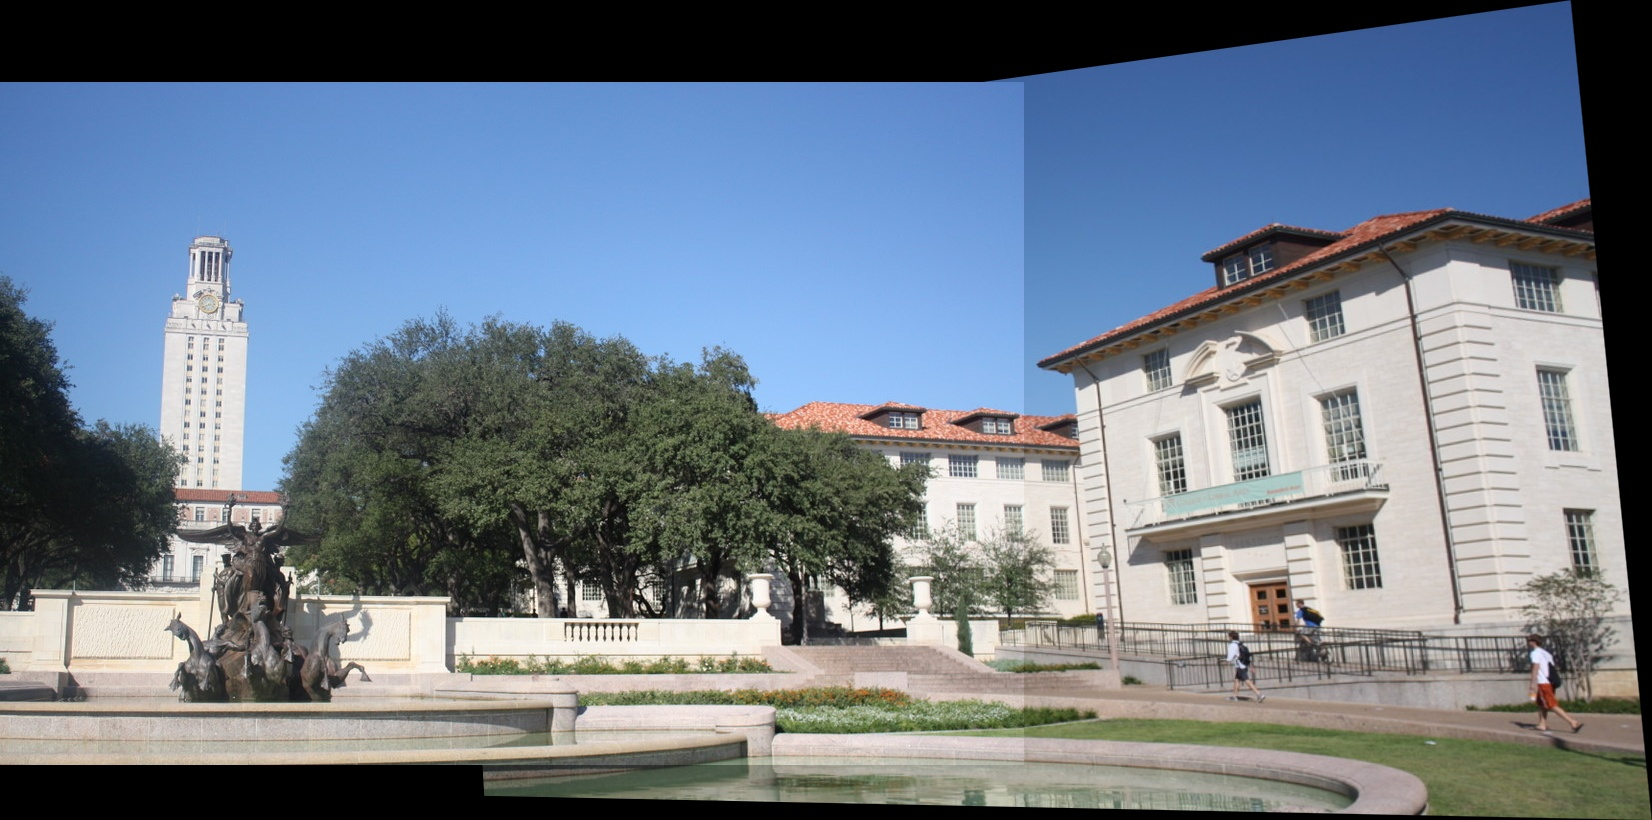
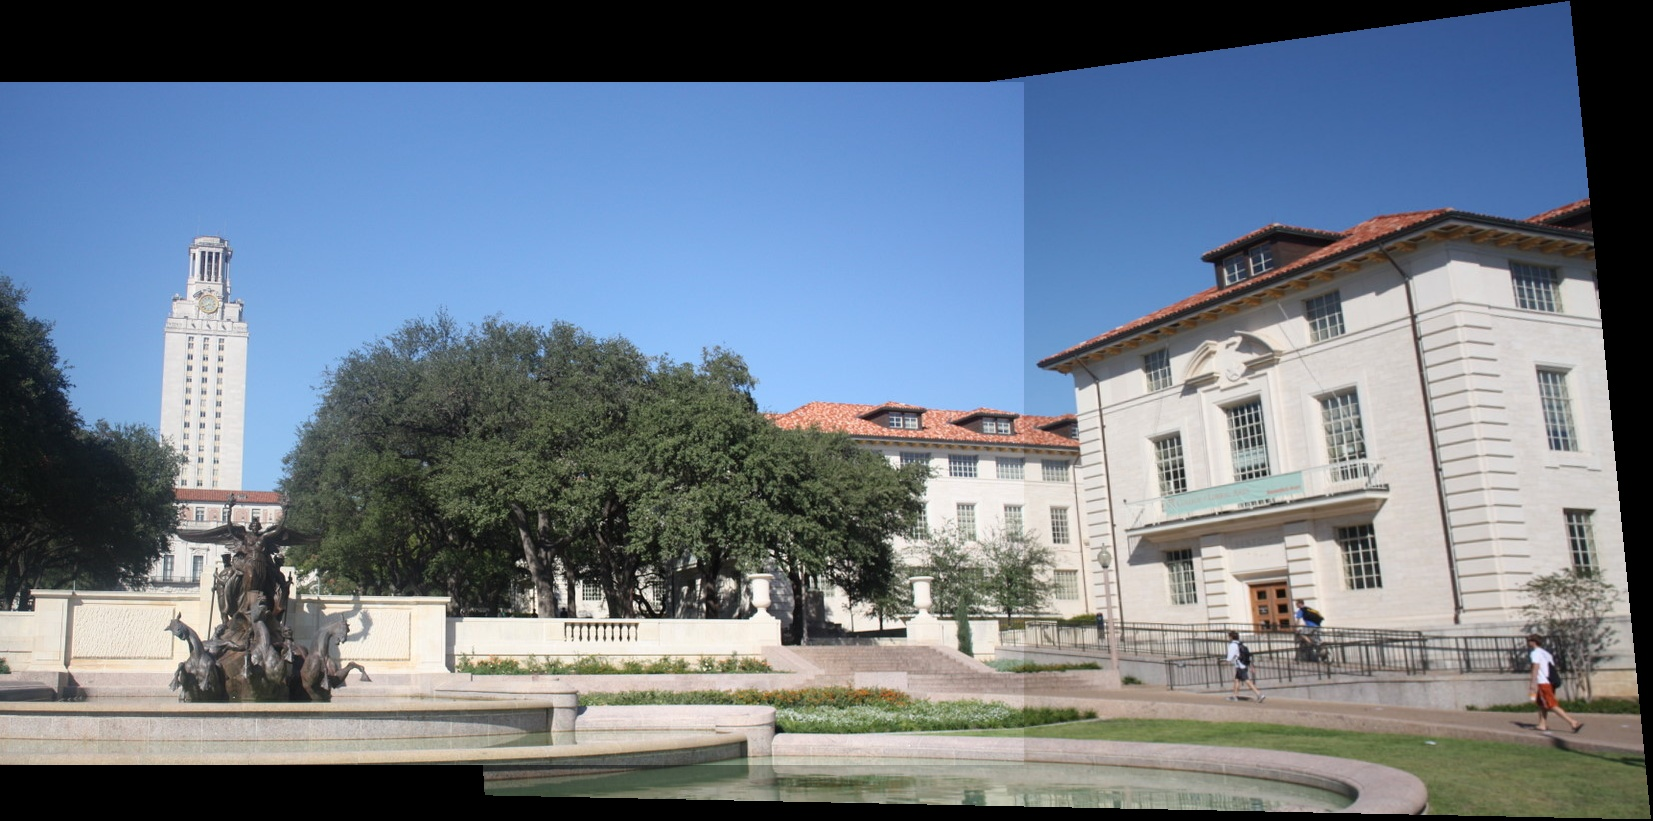
final

diff --git a/part2.py b/part2.py
@@ -206,37 +206,49 @@ plt.show()
 # =====================================
 # 7. Mosaic Creation
 # =====================================
-def create_mosaic(img1, img2, H):
-    """Create mosaic by warping img1 into img2’s coordinate frame."""
-    h2, w2 = img2.shape[:2]
-    h1, w1 = img1.shape[:2]
+def create_mosaic(img_fixed, warped_img, offset):
+    # Convert offsets to integer pixel values
+    ox, oy = offset
+    ox = int(round(ox))
+    oy = int(round(oy))
 
-    # Corners of img1
-    corners_img1 = np.float32([[0, 0], [0, h1], [w1, h1], [w1, 0]]).reshape(-1, 1, 2)
-    warped_corners = cv2.perspectiveTransform(corners_img1, H)
+    hF, wF = img_fixed.shape[:2]
+    hW, wW = warped_img.shape[:2]
 
-    # Combine corners of both images
-    corners_img2 = np.float32([[0, 0], [0, h2], [w2, h2], [w2, 0]]).reshape(-1, 1, 2)
-    all_corners = np.concatenate((warped_corners, corners_img2), axis=0)
+    # Compute canvas bounds
+    min_x = min(0, ox)
+    min_y = min(0, oy)
+    max_x = max(wF, ox + wW)
+    max_y = max(hF, oy + hW)
 
-    [xmin, ymin] = np.int32(all_corners.min(axis=0).ravel() - 0.5)
-    [xmax, ymax] = np.int32(all_corners.max(axis=0).ravel() + 0.5)
+    new_w = int(max_x - min_x)
+    new_h = int(max_y - min_y)
 
-    translation = [-xmin, -ymin]
-    T = np.array([[1, 0, translation[0]], [0, 1, translation[1]], [0, 0, 1]])
+    # Shift values so everything fits in positive index space
+    shift_x = int(-min_x)
+    shift_y = int(-min_y)
 
-    # Warp img1 into mosaic
-    mosaic_w, mosaic_h = xmax - xmin, ymax - ymin
-    img1_warped = cv2.warpPerspective(img1, T @ H, (mosaic_w, mosaic_h))
+    # Create mosaic canvas
+    mosaic = np.zeros((new_h, new_w, 3), dtype=img_fixed.dtype)
 
-    # Overlay img2
-    mosaic = img1_warped.copy()
-    mosaic[translation[1]:translation[1]+h2, translation[0]:translation[0]+w2] = img2
+    
+
+    # Place warped image (img1 warped into img2 coordinates)
+    for y in range(hW):
+        for x in range(wW):
+            px = warped_img[y, x]
+            if not np.all(px == 0):  # skip black/empty regions
+                mosaic[oy + y + shift_y, ox + x + shift_x] = px
+
+    # Place fixed image (img2)
+    mosaic[shift_y:shift_y + hF, shift_x:shift_x + wF] = img_fixed
 
     return mosaic
 
 
-mosaic = create_mosaic(img1, img2, H_manual)
+
+
+mosaic = create_mosaic(img2, warped_img, offset)
 cv2.imwrite("03_mosaic.jpg", mosaic)
 
 plt.figure(figsize=(14, 8))
